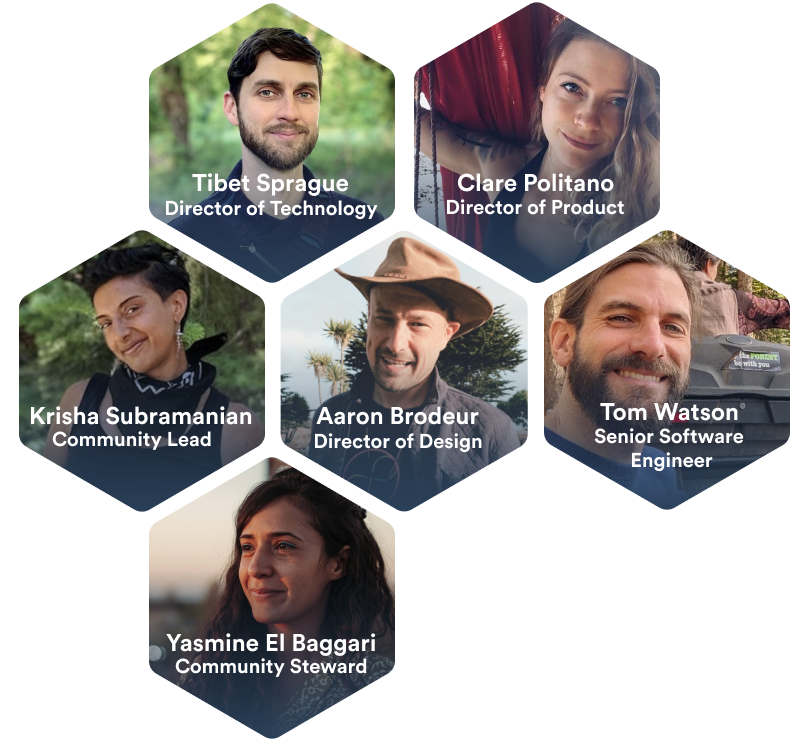
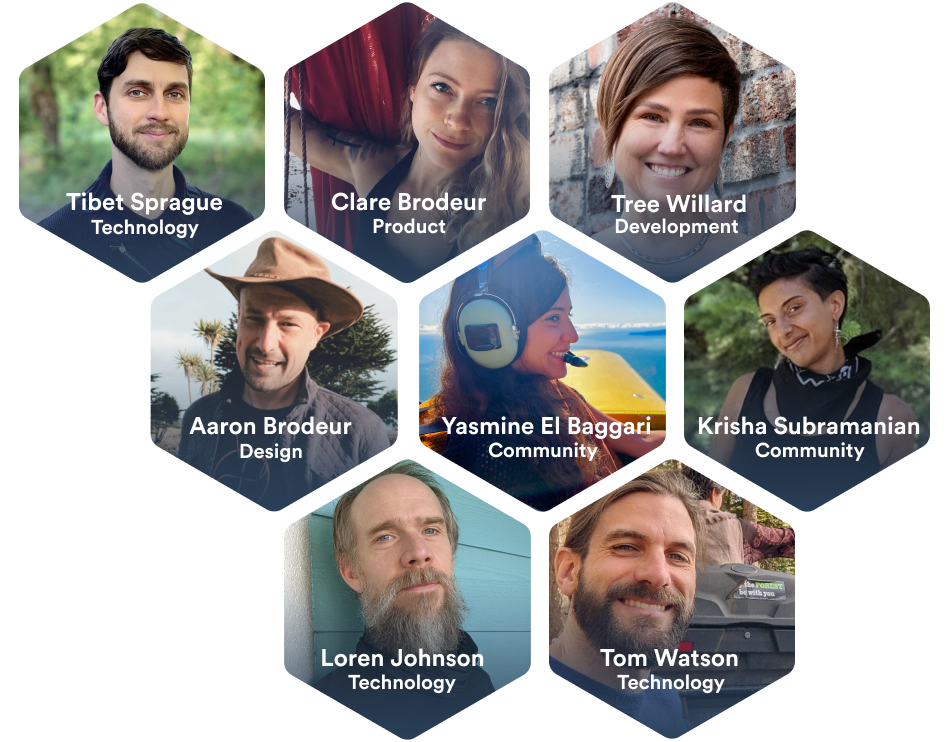
add tree to team page

diff --git a/src/pages/about.js b/src/pages/about.js
@@ -138,6 +138,16 @@ const AboutPage = () => {
              stewardship, guiding numerous groups to grow communities that are equitable and impactful.
              She is a ProSocial facilitator and holds a B.A. in Political Science from the University of Virginia.
             </p>
+            <p><strong><a href="https://www.linkedin.com/in/treewillard" target="_blank" rel="noopener noreferrer">Tree Willard, Director of Development</a></strong><br/>
+            Tree is a Spirit-led, heart-centered, Two Spirit Cherokee citizen, a maker, healer, adventurer, and ceremonialist
+             who has been bridging cultures and nurturing holistic wellbeing in families and communities for more than twenty-five years. 
+             Their passion for justice and peace has grounded their work as a nonprofit leader, activist, and antiracist community organizer, 
+             as well as their journey as a parent, artist, and singer/songwriter. They have founded organizations and led grassroots 
+             campaigns for equitable practice and policy changes in power wielding systems from local schools to our national legislature. 
+             They currently co-chair <a href="http://youthpassageways.org/" target="_blank" rel="noopener noreferrer">Youth Passageways</a>, 
+             a national network of cultural restoration organizations, working to reclaim, remember, and restore Indigenous cultures and the 
+             practices and land that sustain our souls' thrival in relationship with the Great Mystery.
+            </p>
             <p><strong><a href='https://www.linkedin.com/in/krisha-subramanian-6911a939/' target="_blank" rel="noopener noreferrer">Krisha Subramanian, Community Lead</a></strong><br/>
             Krisha has a background in business development and sales, though her passions lie in holistic wellness,
             regenerative living, social justice, and earth-based traditions. She is a life-long student of Ayurveda
